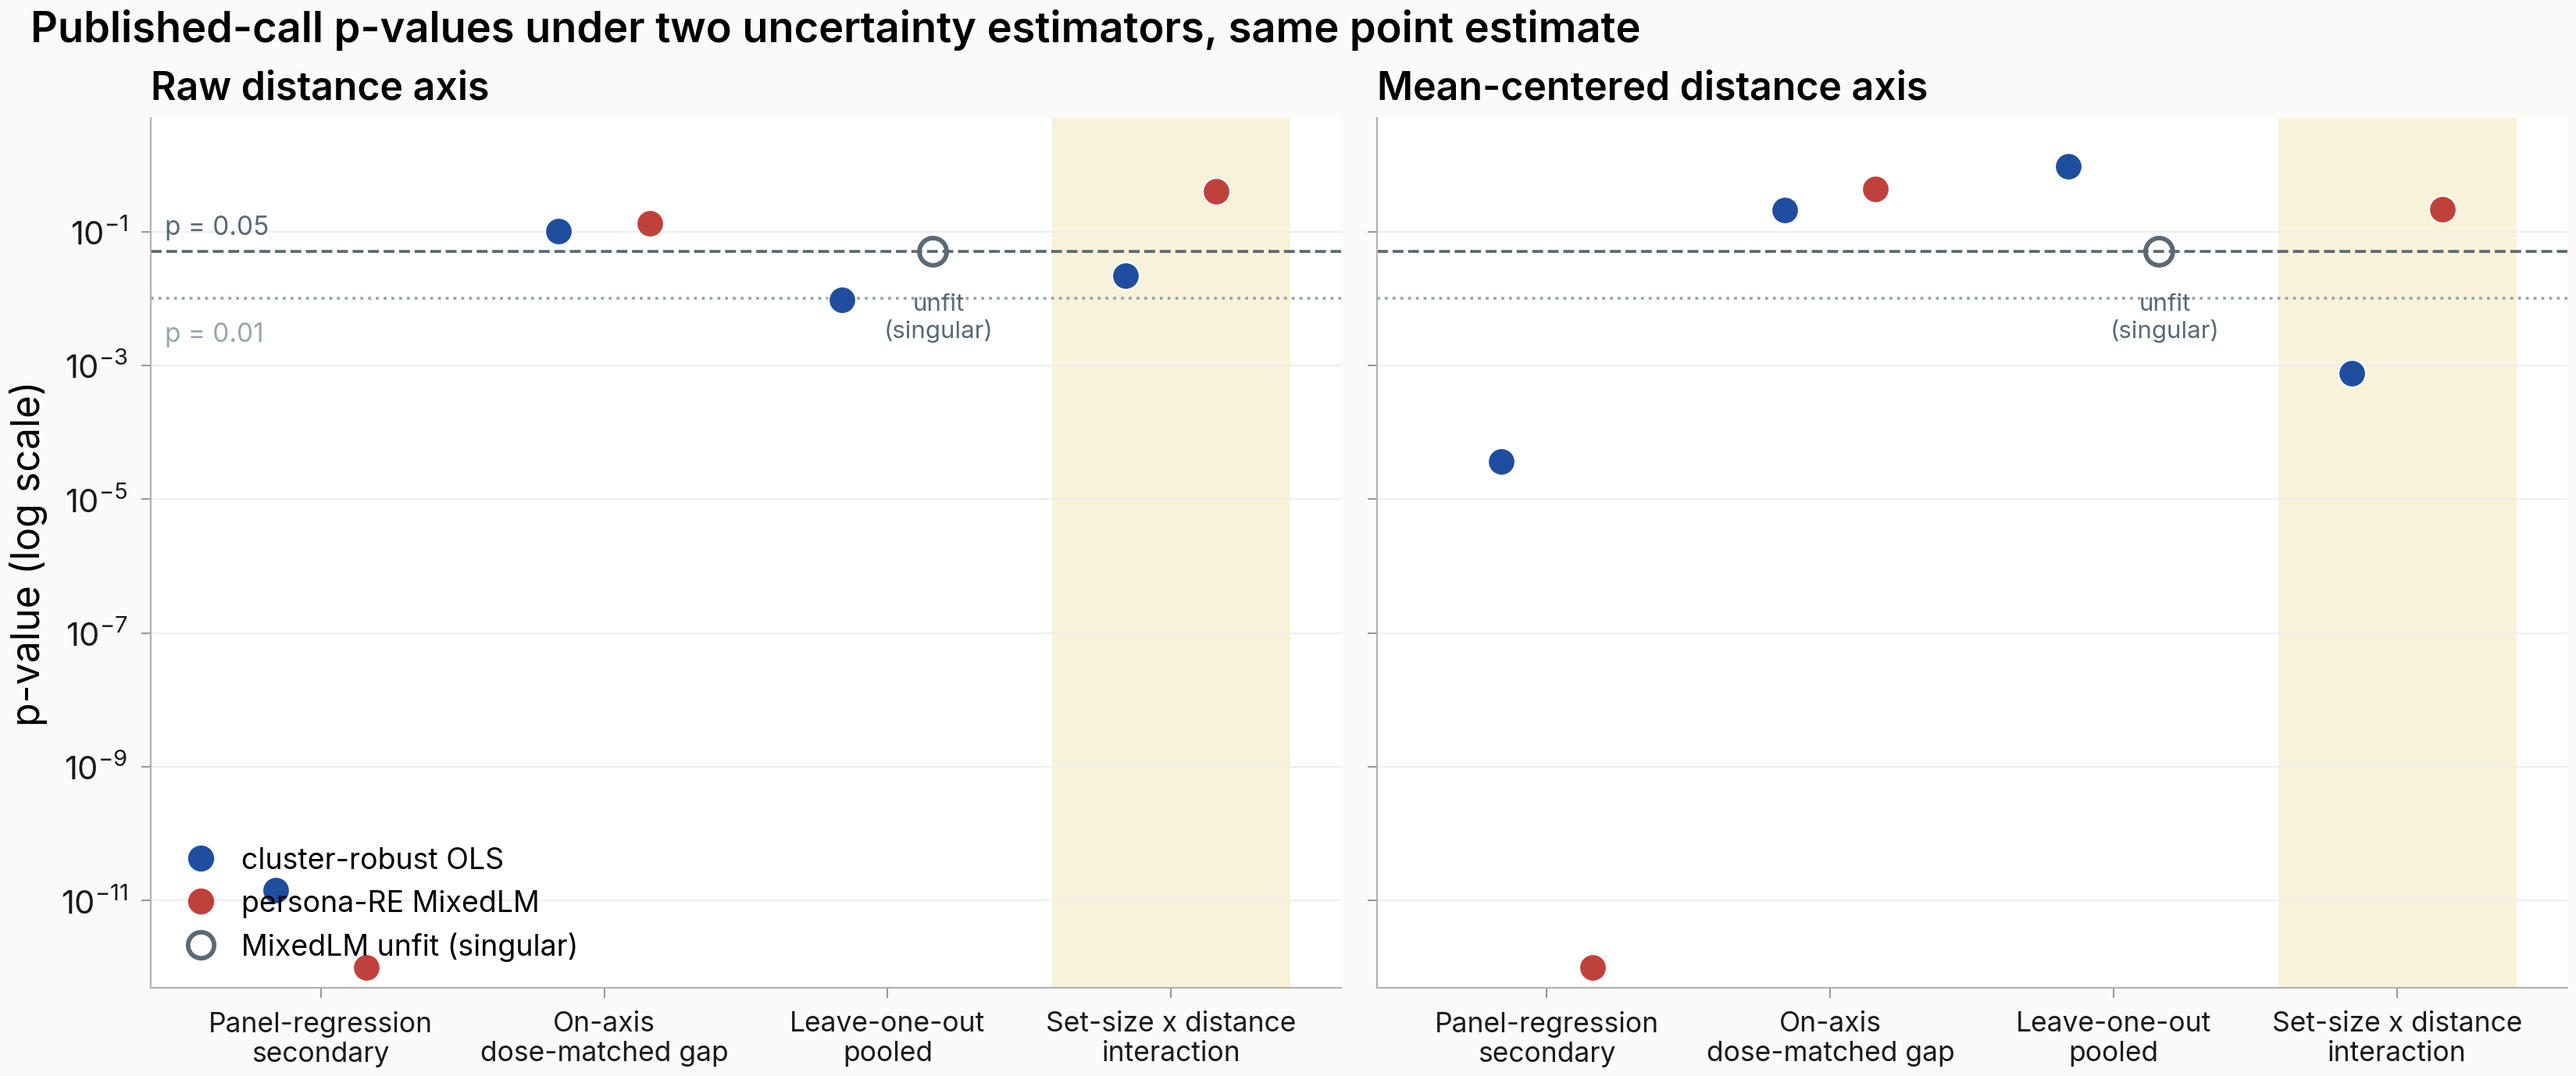
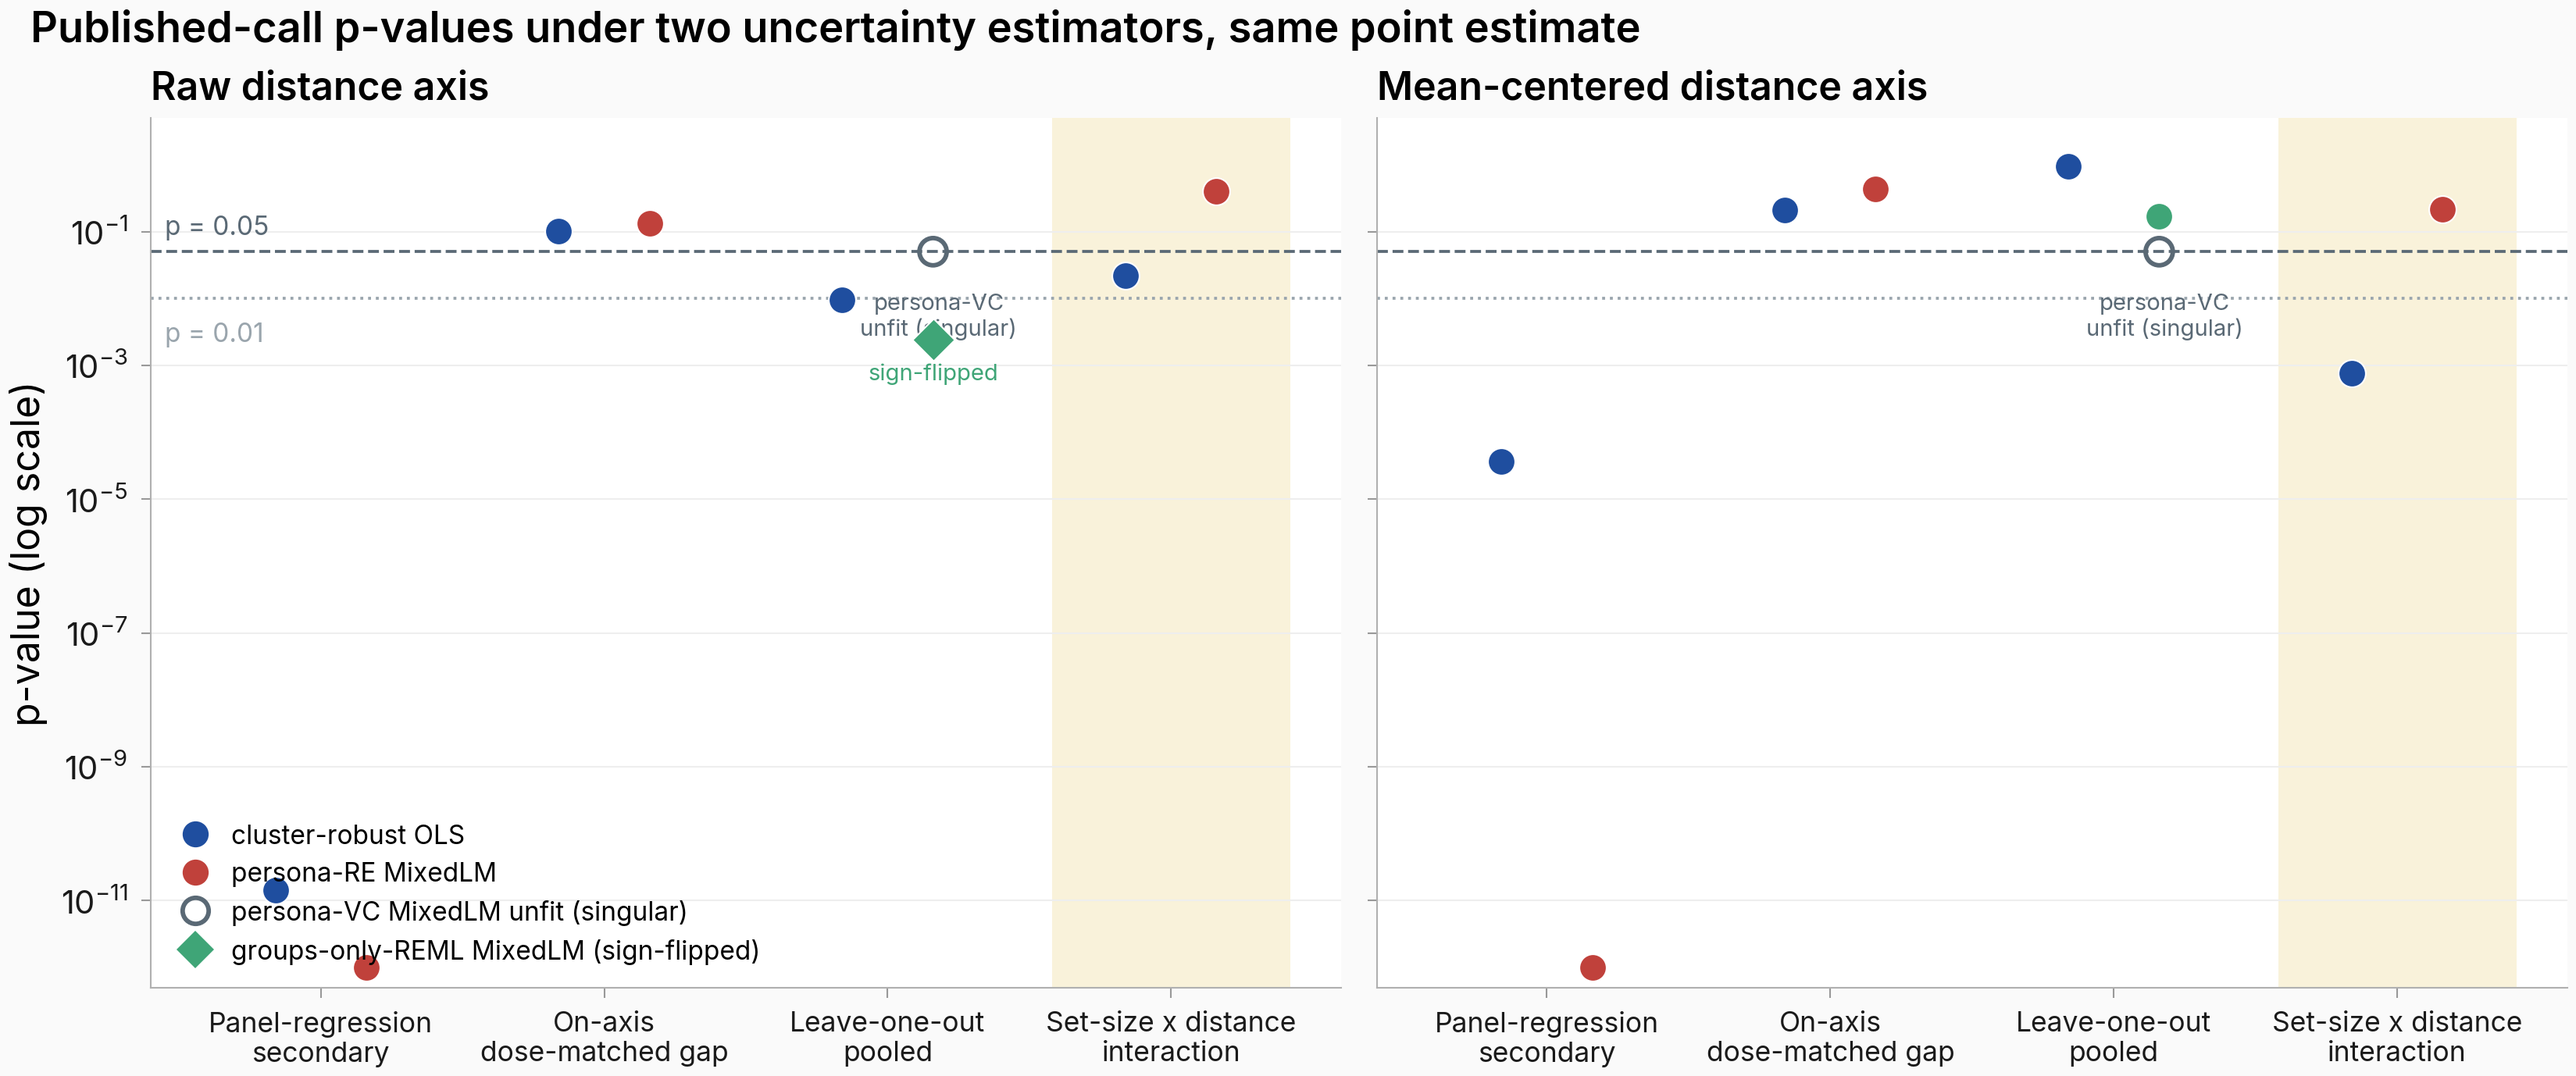
figures: issue #589 hero — add #505 groups-only-REML alt-VC cell (9a-ter sign-flip)

diff --git a/scripts/issue589_figures.py b/scripts/issue589_figures.py
@@ -52,6 +52,7 @@ def fig_hero(data, idx):
     c_ols = paper_palette_role("primary")
     c_mlm = paper_palette_role("accent")
     c_fail = paper_palette_role("neutral")
+    c_alt = paper_palette_role("control")
 
     fig, axes = plt.subplots(1, 2, figsize=(11.0, 4.6), sharey=True)
     joins = ["raw", "centered"]
@@ -78,8 +79,9 @@ def fig_hero(data, idx):
                 p_disp = max(p, 1e-12) if p is not None else 1e-12
                 xpos = i + sgn * dx
                 if failed:
-                    # MixedLM unfit on this cell: mark with an open marker at the
-                    # alpha line + "unfit" text; never plot its (untrustworthy) p.
+                    # persona-VC MixedLM unfit on this cell: mark with an open
+                    # marker at the alpha line + "unfit" text; never plot its
+                    # (untrustworthy) p.
                     ax.scatter(
                         [xpos],
                         [0.05],
@@ -91,13 +93,40 @@ def fig_hero(data, idx):
                         zorder=5,
                     )
                     ax.annotate(
-                        "unfit\n(singular)",
+                        "persona-VC\nunfit (singular)",
                         (xpos + 0.02, 0.012),
-                        fontsize=7.5,
+                        fontsize=7.0,
                         color=c_fail,
                         ha="center",
                         va="top",
                     )
+                    # When the persona-VC MixedLM cell is singular, plot the
+                    # 9a-ter alternative-VC (groups-only REML) cell on the same
+                    # x-slot so the row carries a real second-estimator read.
+                    alt = idx.get((rid, "mixedlm_alt_vc", join))
+                    if alt is not None and alt["_status"] == "OK":
+                        p_alt = max(alt["p_value"], 1e-12)
+                        # diamond if the alt-VC sign-flips vs the OLS cell on this join
+                        flipped = bool(alt.get("_sign_flip") or alt.get("sign_flip"))
+                        ax.scatter(
+                            [xpos],
+                            [p_alt],
+                            s=85 if flipped else 70,
+                            color=c_alt,
+                            zorder=6,
+                            edgecolors="white",
+                            linewidths=0.5,
+                            marker="D" if flipped else "o",
+                        )
+                        if flipped:
+                            ax.annotate(
+                                "sign-flipped",
+                                (xpos, p_alt * 0.45),
+                                fontsize=7.0,
+                                color=c_alt,
+                                ha="center",
+                                va="top",
+                            )
                 else:
                     ax.scatter(
                         [xpos],
@@ -140,10 +169,19 @@ def fig_hero(data, idx):
             markeredgecolor=c_fail,
             markeredgewidth=1.4,
             markersize=8,
-            label="MixedLM unfit (singular)",
+            label="persona-VC MixedLM unfit (singular)",
+        ),
+        Line2D(
+            [],
+            [],
+            marker="D",
+            ls="",
+            color=c_alt,
+            markersize=8,
+            label="groups-only-REML MixedLM (sign-flipped)",
         ),
     ]
-    axes[0].legend(handles=handles, loc="lower left", frameon=False, fontsize=9)
+    axes[0].legend(handles=handles, loc="lower left", frameon=False, fontsize=8)
 
     fig.suptitle(
         "Published-call p-values under two uncertainty estimators, same point estimate",
